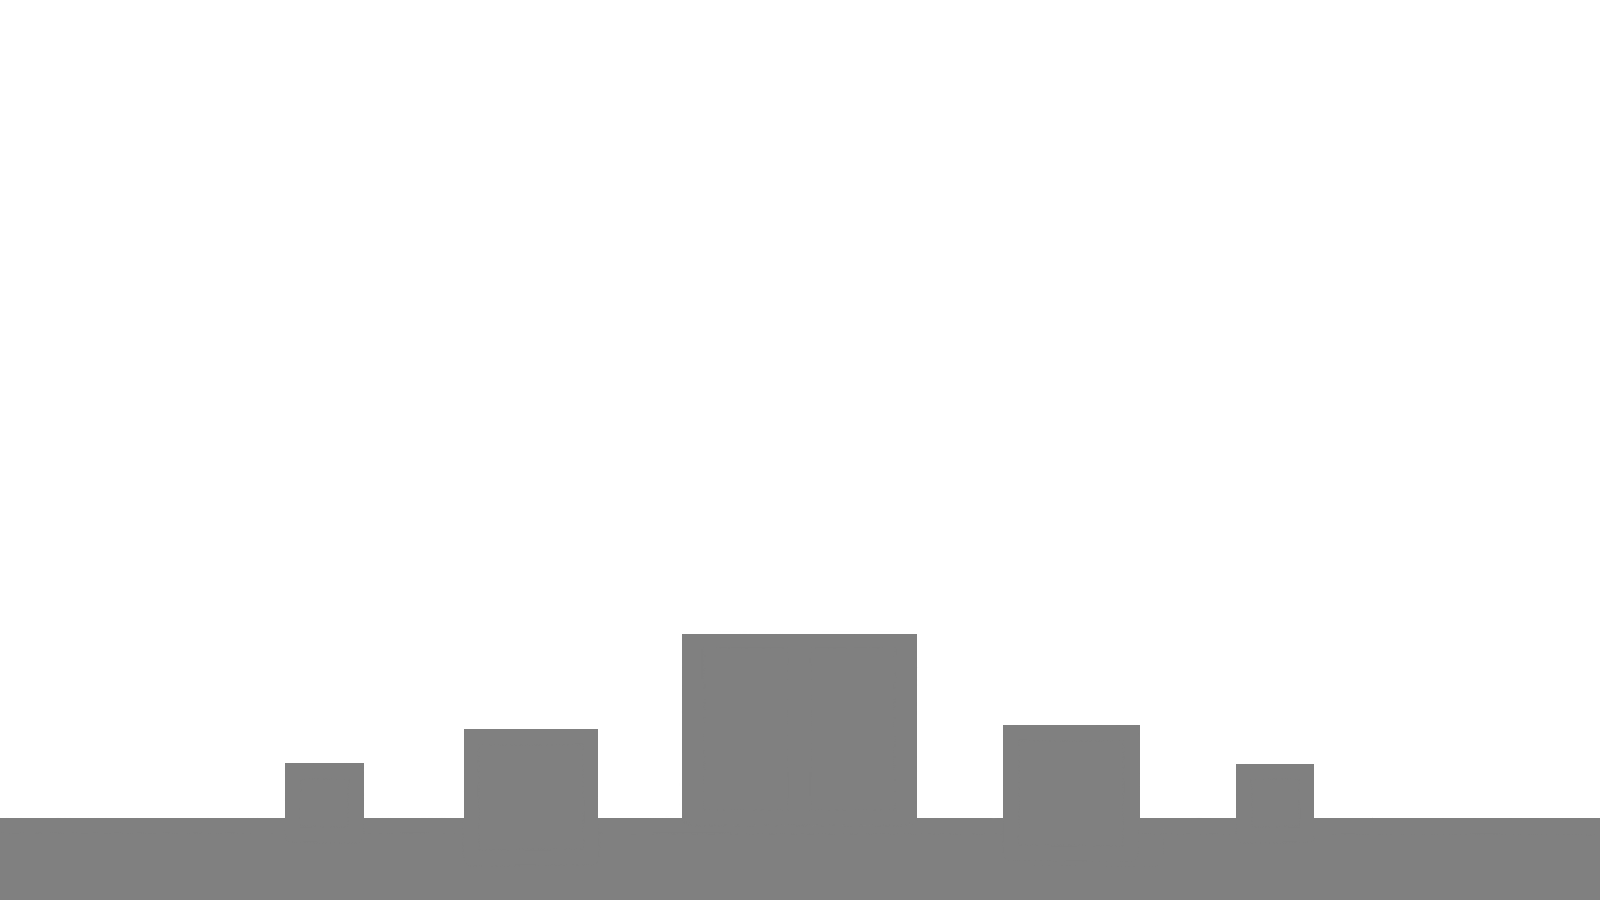
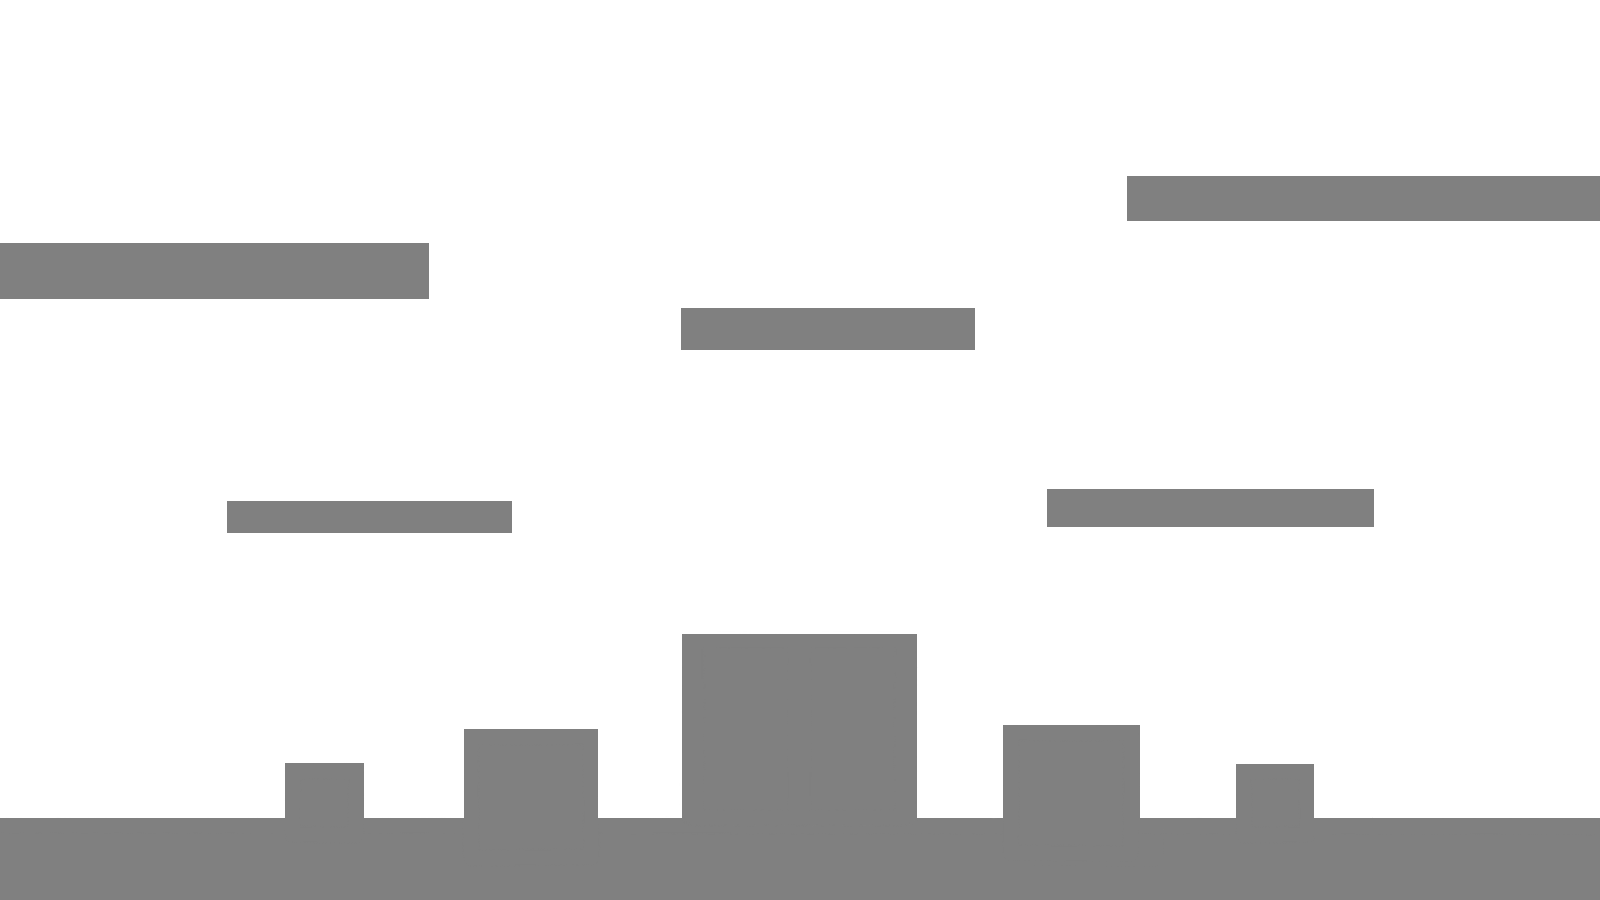
Feature: redesignd basicmap

diff --git a/src/game/map.py b/src/game/map.py
@@ -70,8 +70,8 @@ class Map():
                         solid.append((xi, yi))
         # Add surface borders
         # horizontal edges
-        for x in range(self.game.width):
-            solid.append((x, 0))
+        # for x in range(self.game.width):
+        #     solid.append((x, 0))
             # solid.append((x, self.game.height))
         # vertical edges
         for y in range(self.game.height):
